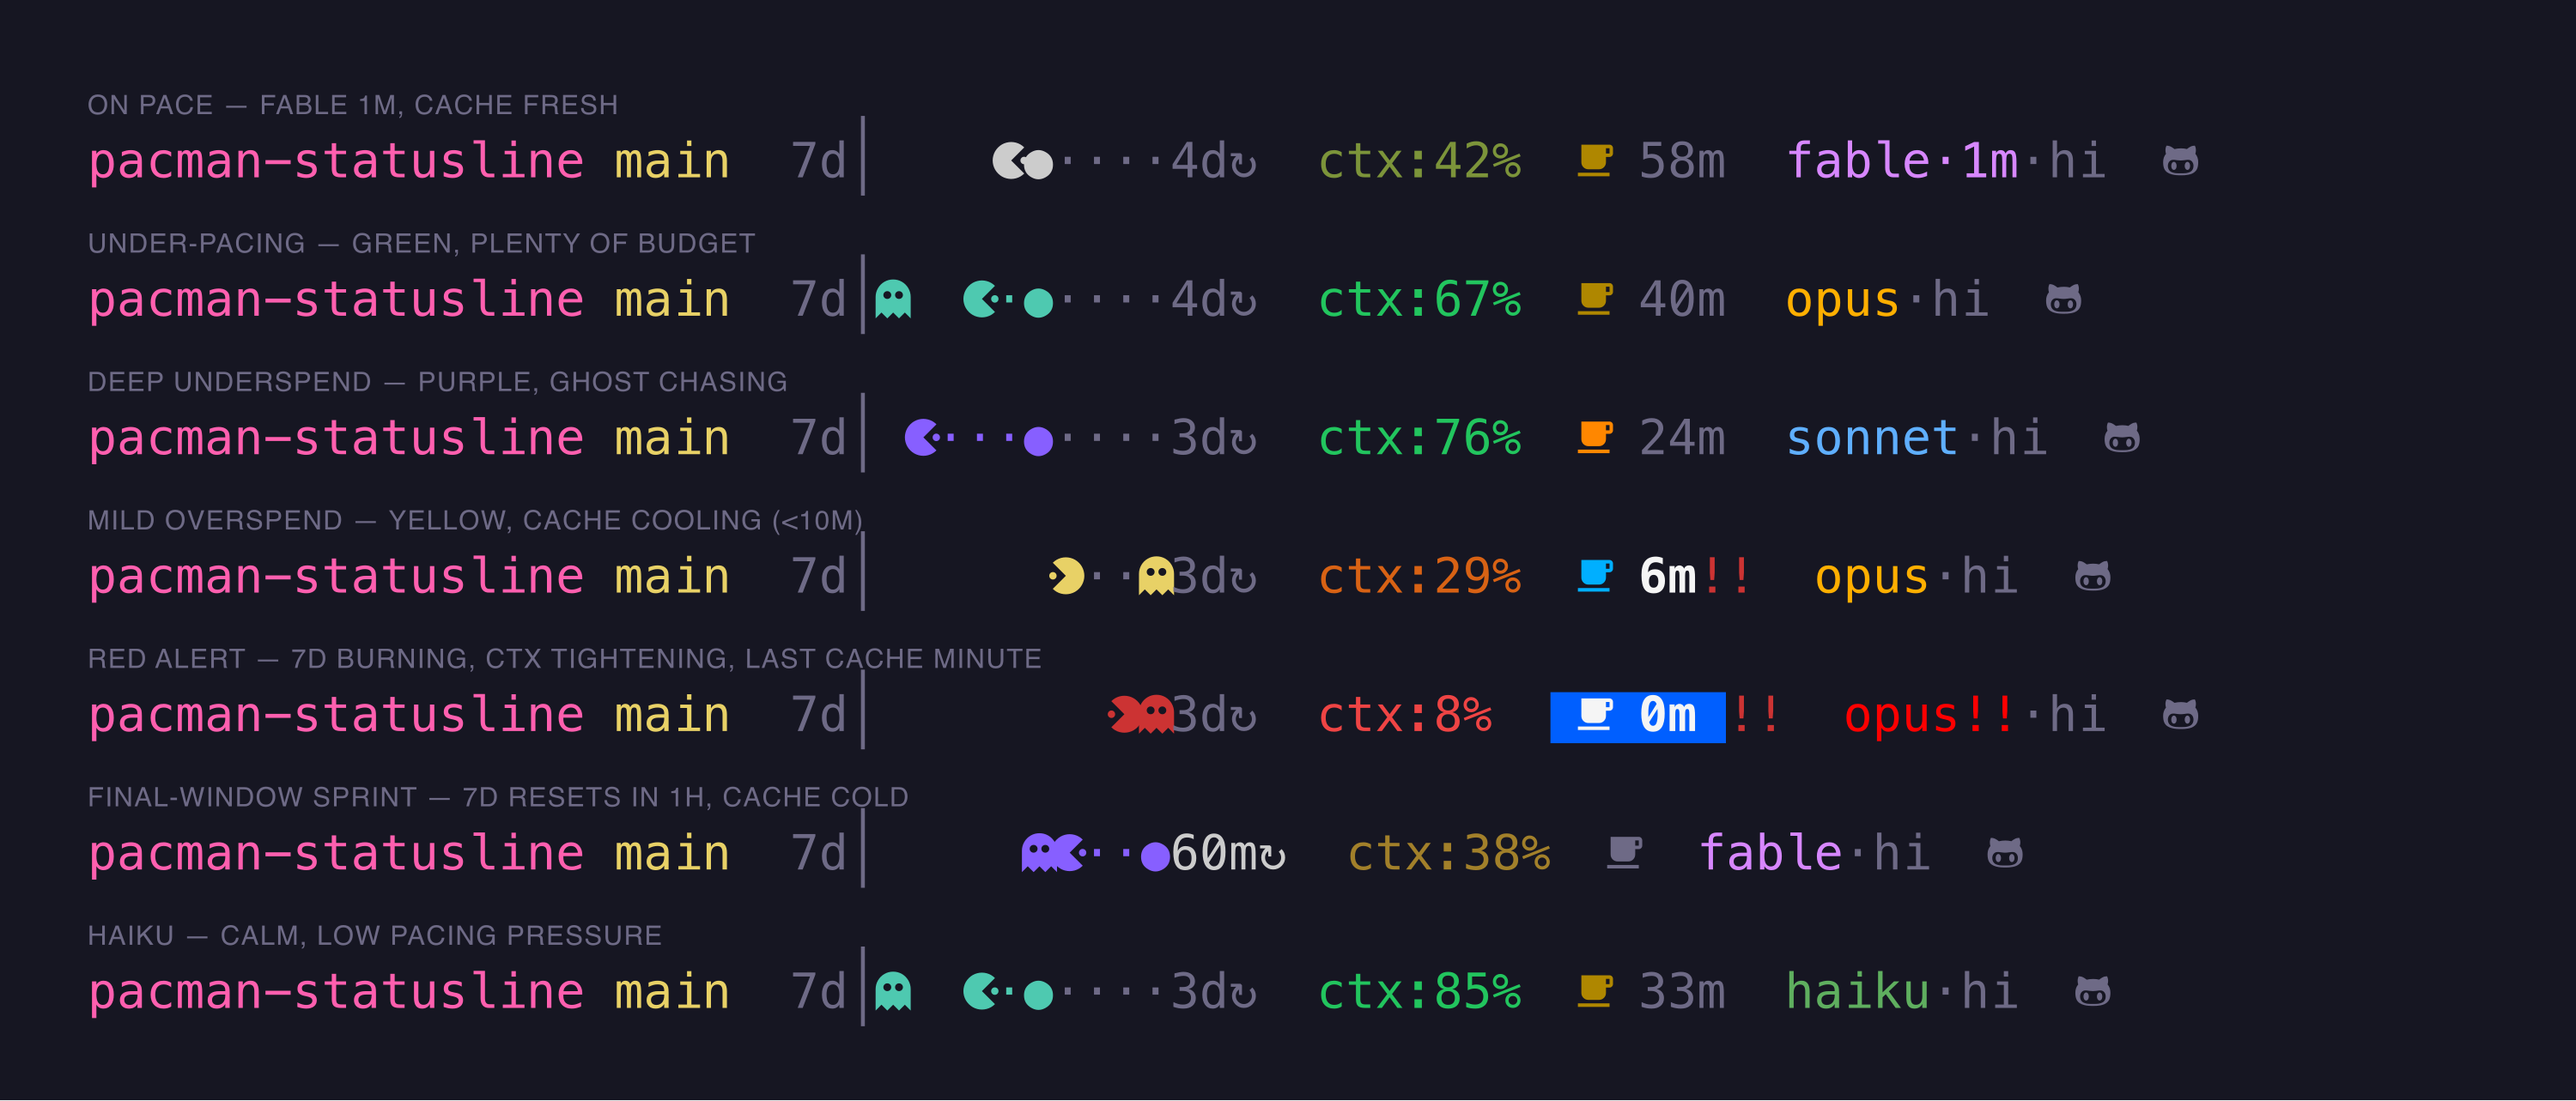
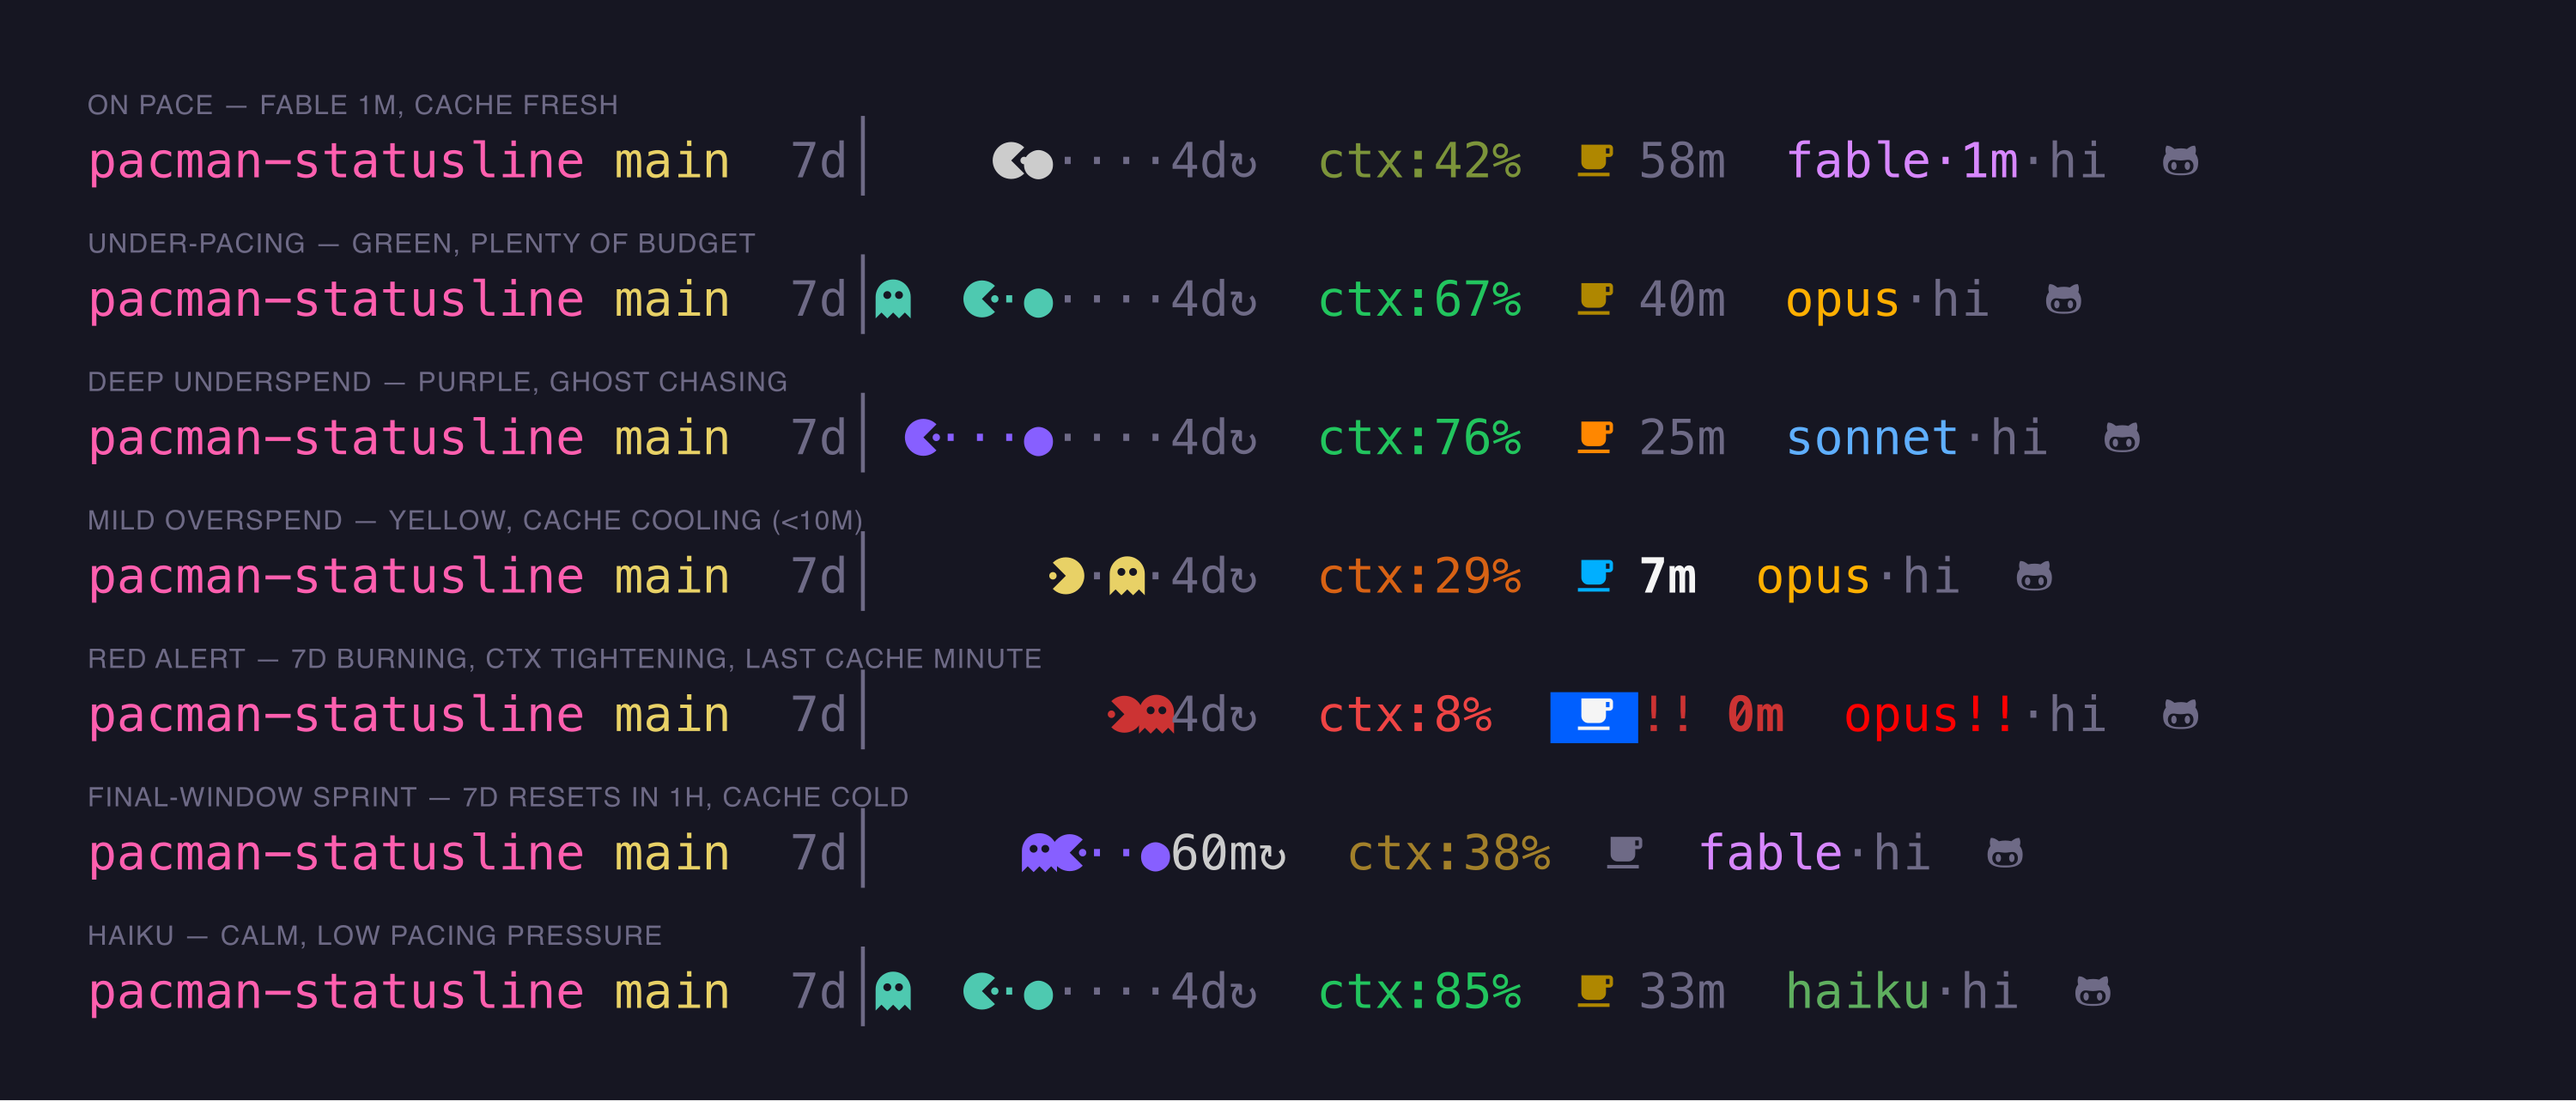
feat(cache): cup !! minutes layout with staged cutoffs
- 10m blue cup, 5m white cup on blue, <2m red !! and red number
- layout is cup !! minutes; minutes never get a background
- 5m TTL scales to 2m / 1m / 30s
- update matrix rows, README and mockup

diff --git a/README.md b/README.md
@@ -42,7 +42,7 @@ repo  branch  7d-gauge  ctx  cache  model  [git-stats]
 - **7d gauge** — discussed above, 10-cell pac-man bar + reset timer
 - **ctx** — context window remaining, autocompact-aware, with a quality-budget display for 1M-context models. 
   - Autocompact-aware: 15% (200K models) or 17% (1M models) is reserved for compaction, so `0%` means compaction fires.
-- **cache** — prompt-cache countdown: a coffee cup plus the minutes left before the cache goes cold. Quiet while healthy (dim amber, then orange), loud at the cliff: sky blue + red `!!` under 10 minutes (1h TTL), and a white-on-blue block under 2. Cool colors mean "about to go cold" (red would read as hot). Minutes are floored, so `1m` always has at least 60s left and the final minute reads `0m`. A dim gray cup means cold. Hidden when Claude Code reports no cache data. Thresholds scale down for a 5m TTL.
+- **cache** — prompt-cache countdown: a coffee cup plus the minutes left before the cache goes cold, laid out as `cup !! minutes`. Quiet while healthy (dim amber, then orange from 30m). Cool colors mean "about to go cold" (red would read as hot): blue cup from 10m, white cup on a blue background from 5m, and red `!!` with a red number only under 2m. The minutes never get a background. Minutes are floored, so `1m` always has at least 60s left and the final minute reads `0m`. A dim gray cup means cold. Hidden when Claude Code reports no cache data. Thresholds scale down for a 5m TTL (blue 2m, background 1m, `!!` 30s).
 - **model** — fable/opus/sonnet/haiku tier (from `model.id`), 1M flag (from the context window size), and the session's effort level. Turns red with `!!` when 7d is in danger.
 - **git-stats** — current repo only: `⎇` linked worktree, `!N` modified/staged, `?N` untracked, `Nf +N -N` diffstat against HEAD
 
